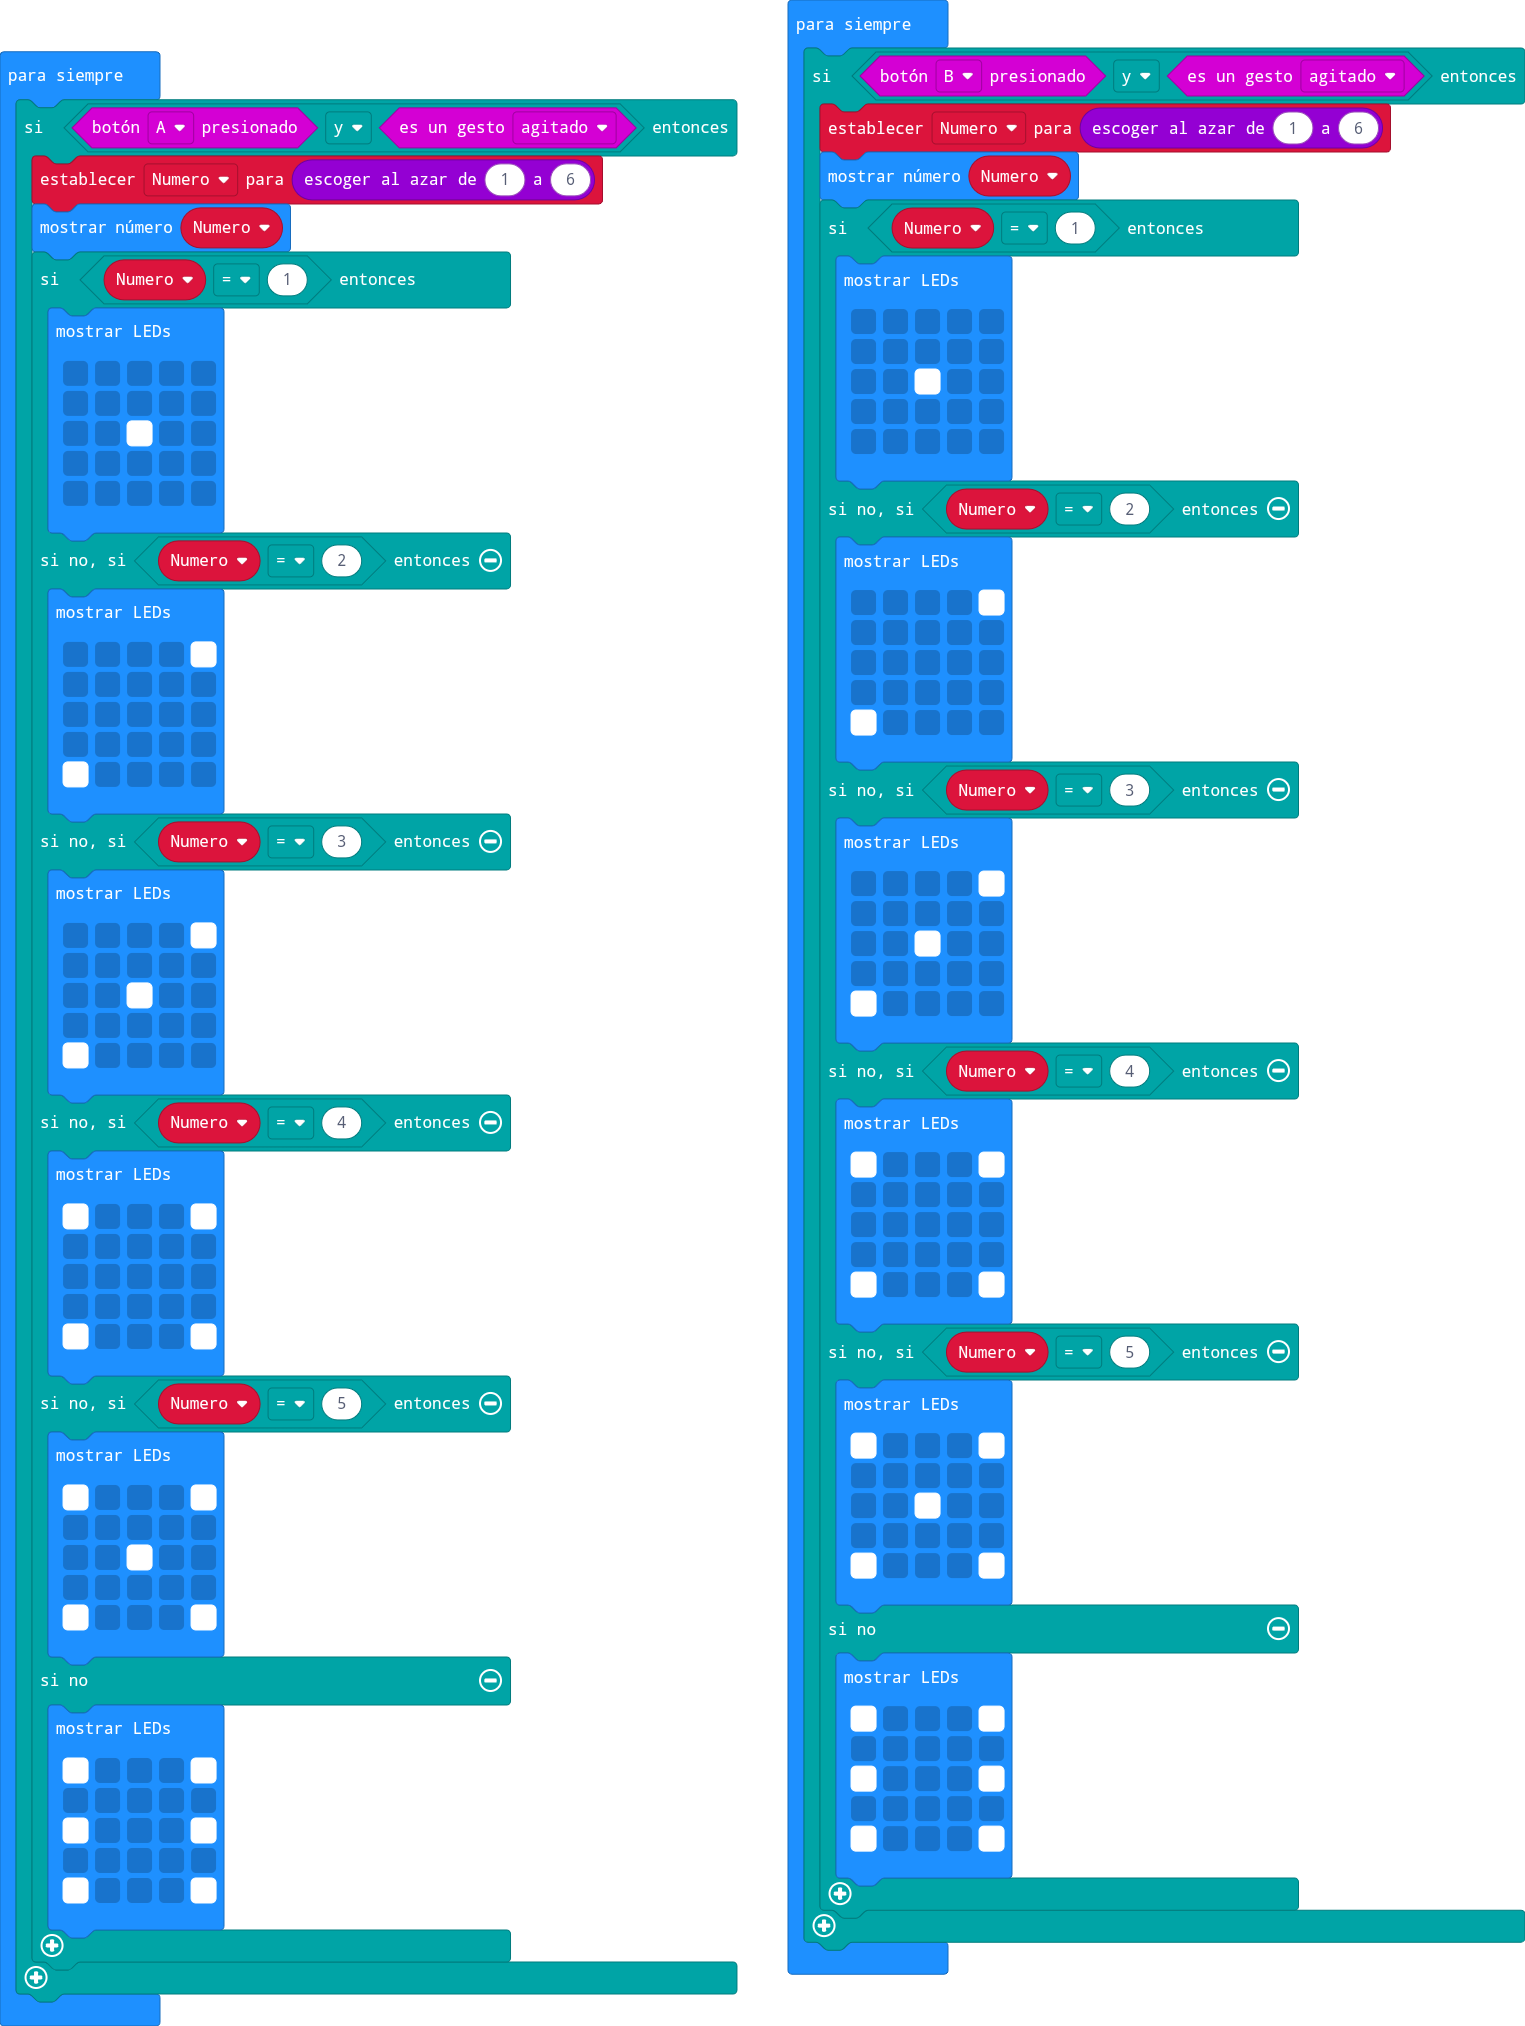
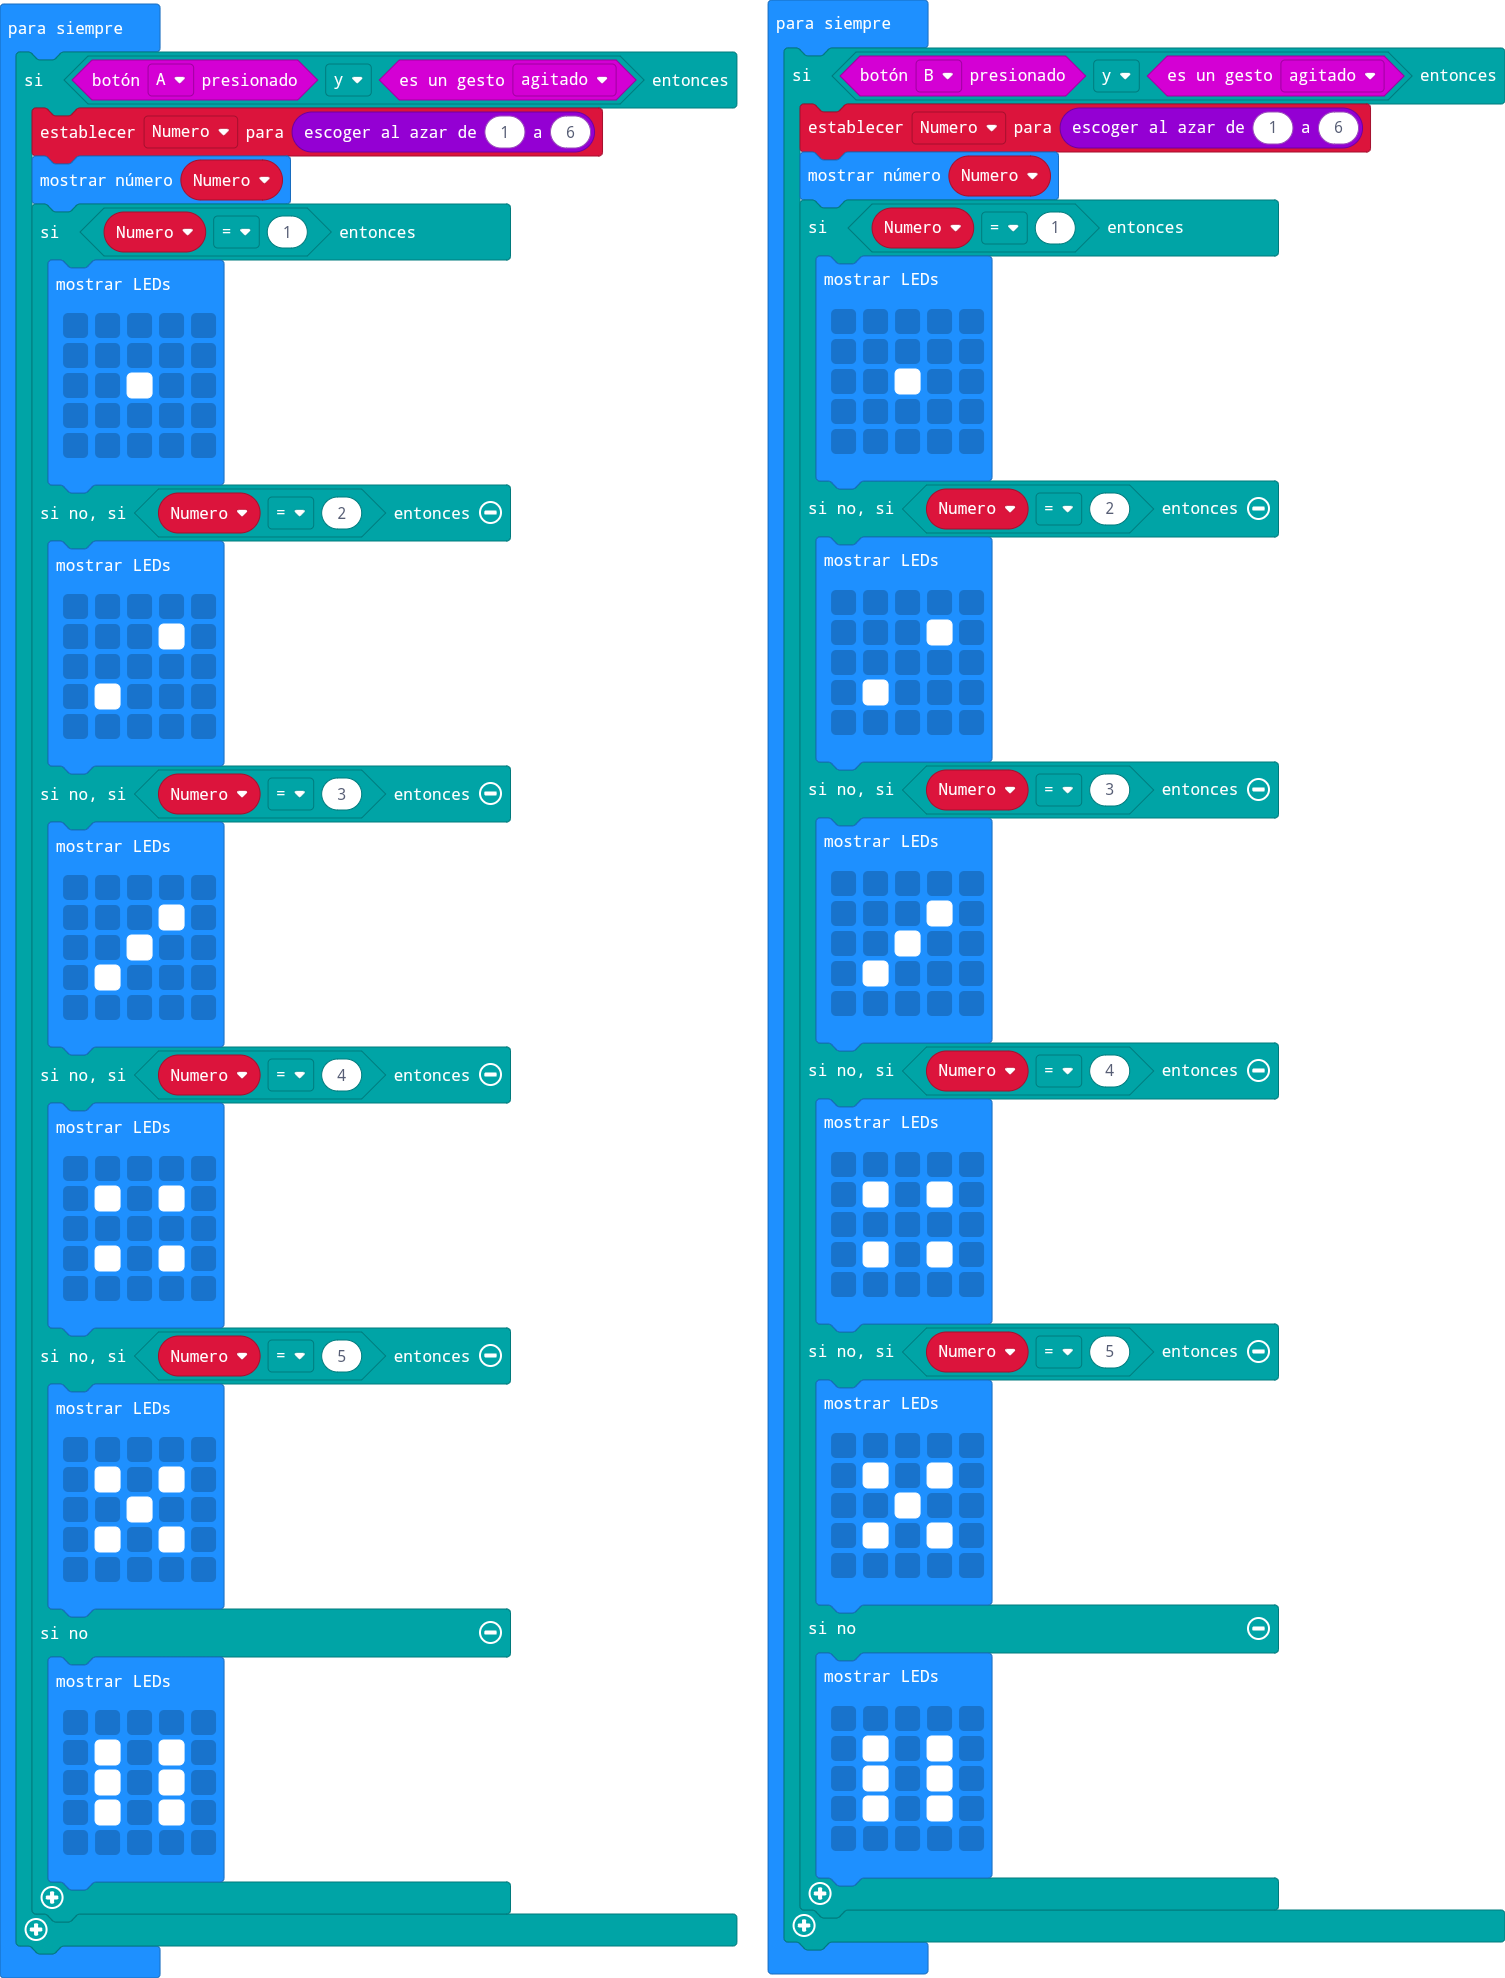
completado

Changed region(s): [[0.0, 0.0, 1.0, 1.0], [0.3123, 0.956, 0.3435, 0.9869]]

diff --git a/main.ts b/main.ts
@@ -1,60 +1,5 @@
 let Numero = 0
 basic.forever(function () {
-    if (input.buttonIsPressed(Button.B) && input.isGesture(Gesture.Shake)) {
-        Numero = randint(1, 6)
-        basic.showNumber(Numero)
-        if (Numero == 1) {
-            basic.showLeds(`
-                . . . . .
-                . . . . .
-                . . # . .
-                . . . . .
-                . . . . .
-                `)
-        } else if (Numero == 2) {
-            basic.showLeds(`
-                . . . . #
-                . . . . .
-                . . . . .
-                . . . . .
-                # . . . .
-                `)
-        } else if (Numero == 3) {
-            basic.showLeds(`
-                . . . . #
-                . . . . .
-                . . # . .
-                . . . . .
-                # . . . .
-                `)
-        } else if (Numero == 4) {
-            basic.showLeds(`
-                # . . . #
-                . . . . .
-                . . . . .
-                . . . . .
-                # . . . #
-                `)
-        } else if (Numero == 5) {
-            basic.showLeds(`
-                # . . . #
-                . . . . .
-                . . # . .
-                . . . . .
-                # . . . #
-                `)
-        } else {
-            basic.showLeds(`
-                # . . . #
-                . . . . .
-                # . . . #
-                . . . . .
-                # . . . #
-                `)
-        }
-    }
-})
-basic.forever(function () {
     if (input.buttonIsPressed(Button.A) && input.isGesture(Gesture.Shake)) {
         Numero = randint(1, 6)
         basic.showNumber(Numero)
@@ -68,47 +13,99 @@ basic.forever(function () {
                 `)
         } else if (Numero == 2) {
             basic.showLeds(`
-                . . . . #
                 . . . . .
+                . . . # .
                 . . . . .
+                . # . . .
                 . . . . .
-                # . . . .
                 `)
         } else if (Numero == 3) {
             basic.showLeds(`
-                . . . . #
                 . . . . .
+                . . . # .
                 . . # . .
+                . # . . .
                 . . . . .
-                # . . . .
                 `)
         } else if (Numero == 4) {
             basic.showLeds(`
-                # . . . #
                 . . . . .
+                . # . # .
                 . . . . .
+                . # . # .
                 . . . . .
-                # . . . #
                 `)
         } else if (Numero == 5) {
             basic.showLeds(`
-                # . . . #
                 . . . . .
+                . # . # .
                 . . # . .
+                . # . # .
                 . . . . .
-                # . . . #
                 `)
         } else {
             basic.showLeds(`
-                # . . . #
                 . . . . .
-                # . . . #
+                . # . # .
+                . # . # .
+                . # . # .
                 . . . . .
-                # . . . #
                 `)
         }
     }
 })
 basic.forever(function () {
-	
+    if (input.buttonIsPressed(Button.B) && input.isGesture(Gesture.Shake)) {
+        Numero = randint(1, 6)
+        basic.showNumber(Numero)
+        if (Numero == 1) {
+            basic.showLeds(`
+                . . . . .
+                . . . . .
+                . . # . .
+                . . . . .
+                . . . . .
+                `)
+        } else if (Numero == 2) {
+            basic.showLeds(`
+                . . . . .
+                . . . # .
+                . . . . .
+                . # . . .
+                . . . . .
+                `)
+        } else if (Numero == 3) {
+            basic.showLeds(`
+                . . . . .
+                . . . # .
+                . . # . .
+                . # . . .
+                . . . . .
+                `)
+        } else if (Numero == 4) {
+            basic.showLeds(`
+                . . . . .
+                . # . # .
+                . . . . .
+                . # . # .
+                . . . . .
+                `)
+        } else if (Numero == 5) {
+            basic.showLeds(`
+                . . . . .
+                . # . # .
+                . . # . .
+                . # . # .
+                . . . . .
+                `)
+        } else {
+            basic.showLeds(`
+                . . . . .
+                . # . # .
+                . # . # .
+                . # . # .
+                . . . . .
+                `)
+        }
+    }
 })
